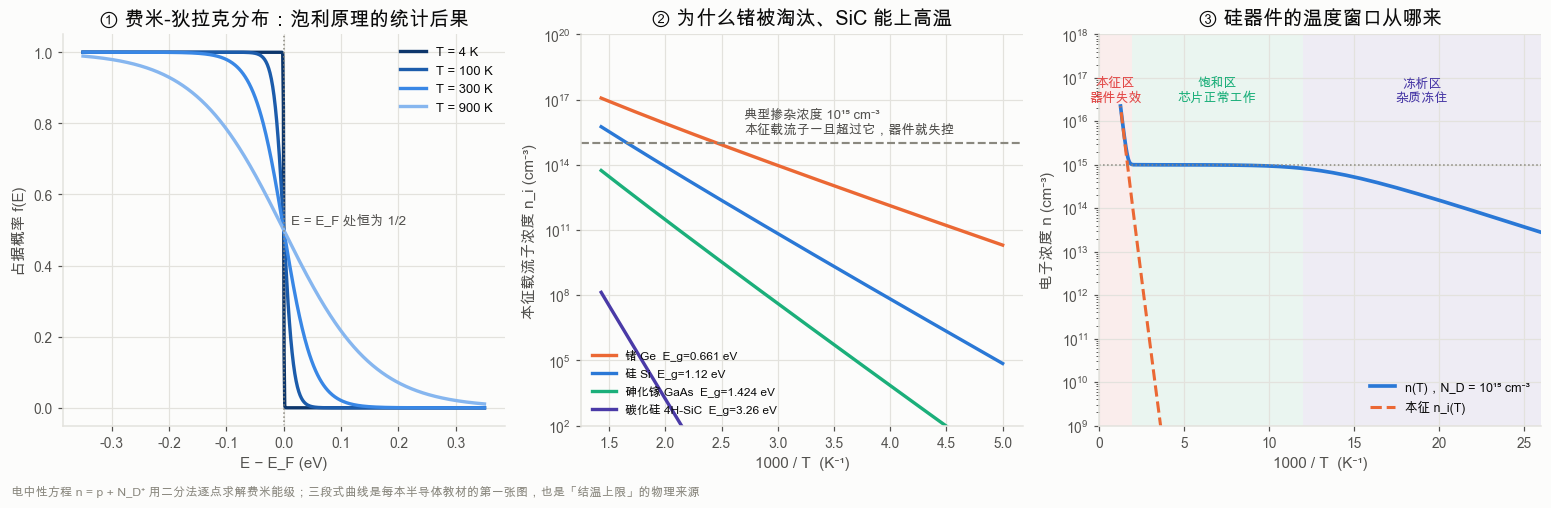
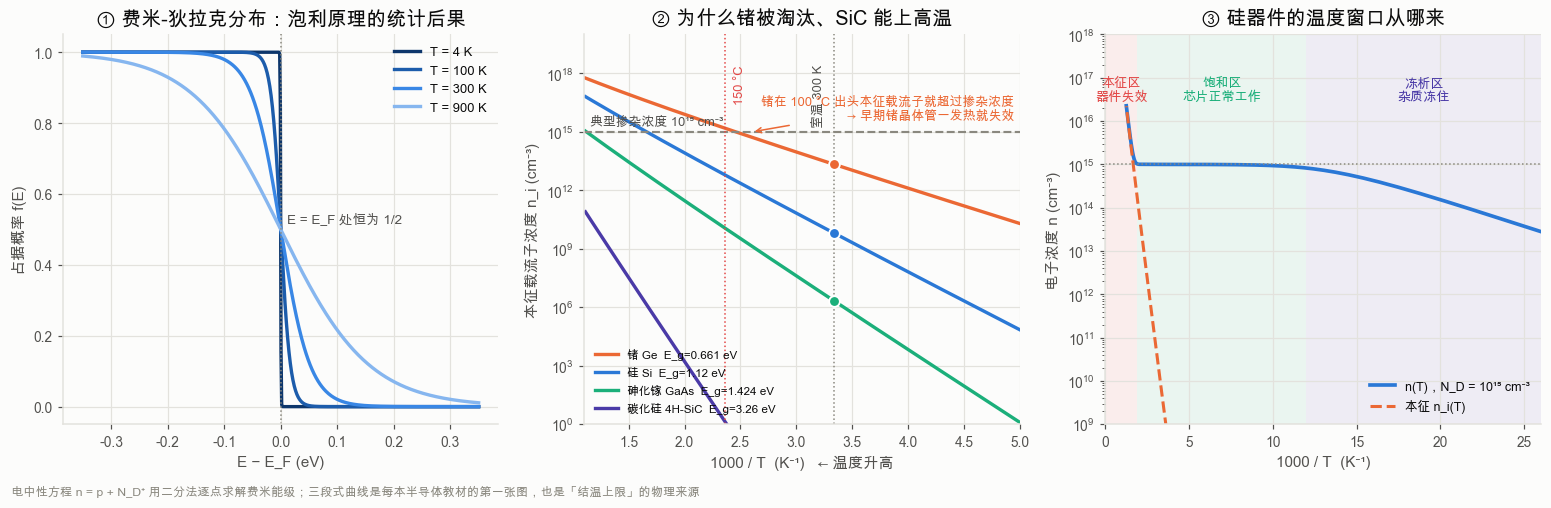
人物志 update

diff --git a/qhv/s08_chips.py b/qhv/s08_chips.py
@@ -191,20 +191,32 @@ def fig_carriers():
 
     # ② 本征载流子浓度
     ax = axes[1]
-    T = np.linspace(200, 700, 300)
+    T = np.linspace(200, 900, 400)
     for name, m in MATERIALS.items():
         ni = n_intrinsic(T, m["Eg"], m["Nc"], m["Nv"])
         ax.semilogy(1000 / T, ni, color=m["color"], lw=2.2,
                     label=f"{name}  E_g={m['Eg']} eV")
-        ni300 = n_intrinsic(np.array([300.0]), m["Eg"], m["Nc"], m["Nv"])[0]
+        ni300 = float(n_intrinsic(np.array([300.0]), m["Eg"], m["Nc"], m["Nv"])[0])
+        if ni300 > 1e0:
+            ax.plot([1000 / 300], [ni300], "o", ms=7, color=m["color"], zorder=5,
+                    markeredgecolor="white", markeredgewidth=1.2)
         print(f"  n_i(300K) {name}: {ni300:.2e} cm⁻³")
     ax.axhline(1e15, color=INK_MUTED, ls="--", lw=1.4)
-    ax.text(2.7, 3e15, "典型掺杂浓度 10¹⁵ cm⁻³\n本征载流子一旦超过它，器件就失控",
-            fontsize=8.6, color=INK_2)
-    ax.set_xlabel("1000 / T  (K⁻¹)"); ax.set_ylabel("本征载流子浓度 n_i (cm⁻³)")
-    ax.set_ylim(1e2, 1e20)
+    ax.text(1.15, 2.2e15, "典型掺杂浓度 10¹⁵ cm⁻³", fontsize=8.4, color=INK_2, ha="left")
+    ax.axvline(1000 / 300, color=INK_MUTED, lw=1, ls=":")
+    ax.text(1000 / 300 - 0.08, 3e18, "室温 300 K", fontsize=8.4, color=INK_2,
+            rotation=90, va="top", ha="right")
+    ax.axvline(1000 / 423, color=C["red"], lw=1, ls=":")
+    ax.text(1000 / 423 + 0.08, 3e18, "150 °C", fontsize=8.4, color=C["red"],
+            rotation=90, va="top")
+    ax.annotate("锗在 100 °C 出头本征载流子就超过掺杂浓度\n→ 早期锗晶体管一发热就失效",
+                xy=(2.6, 1e15), xytext=(4.95, 8e16), fontsize=8.4, color=C["orange"],
+                ha="right", va="top",
+                arrowprops=dict(arrowstyle="->", color=C["orange"], lw=1))
+    ax.set_xlabel("1000 / T  (K⁻¹)   ← 温度升高"); ax.set_ylabel("本征载流子浓度 n_i (cm⁻³)")
+    ax.set_ylim(1e0, 1e20); ax.set_xlim(1.1, 5.0)
     ax.set_title("② 为什么锗被淘汰、SiC 能上高温")
-    ax.legend(fontsize=7.8, loc="lower left")
+    ax.legend(fontsize=7.6, loc="lower left")
 
     # ③ 掺杂硅的电子浓度：冻析 / 饱和 / 本征
     ax = axes[2]
